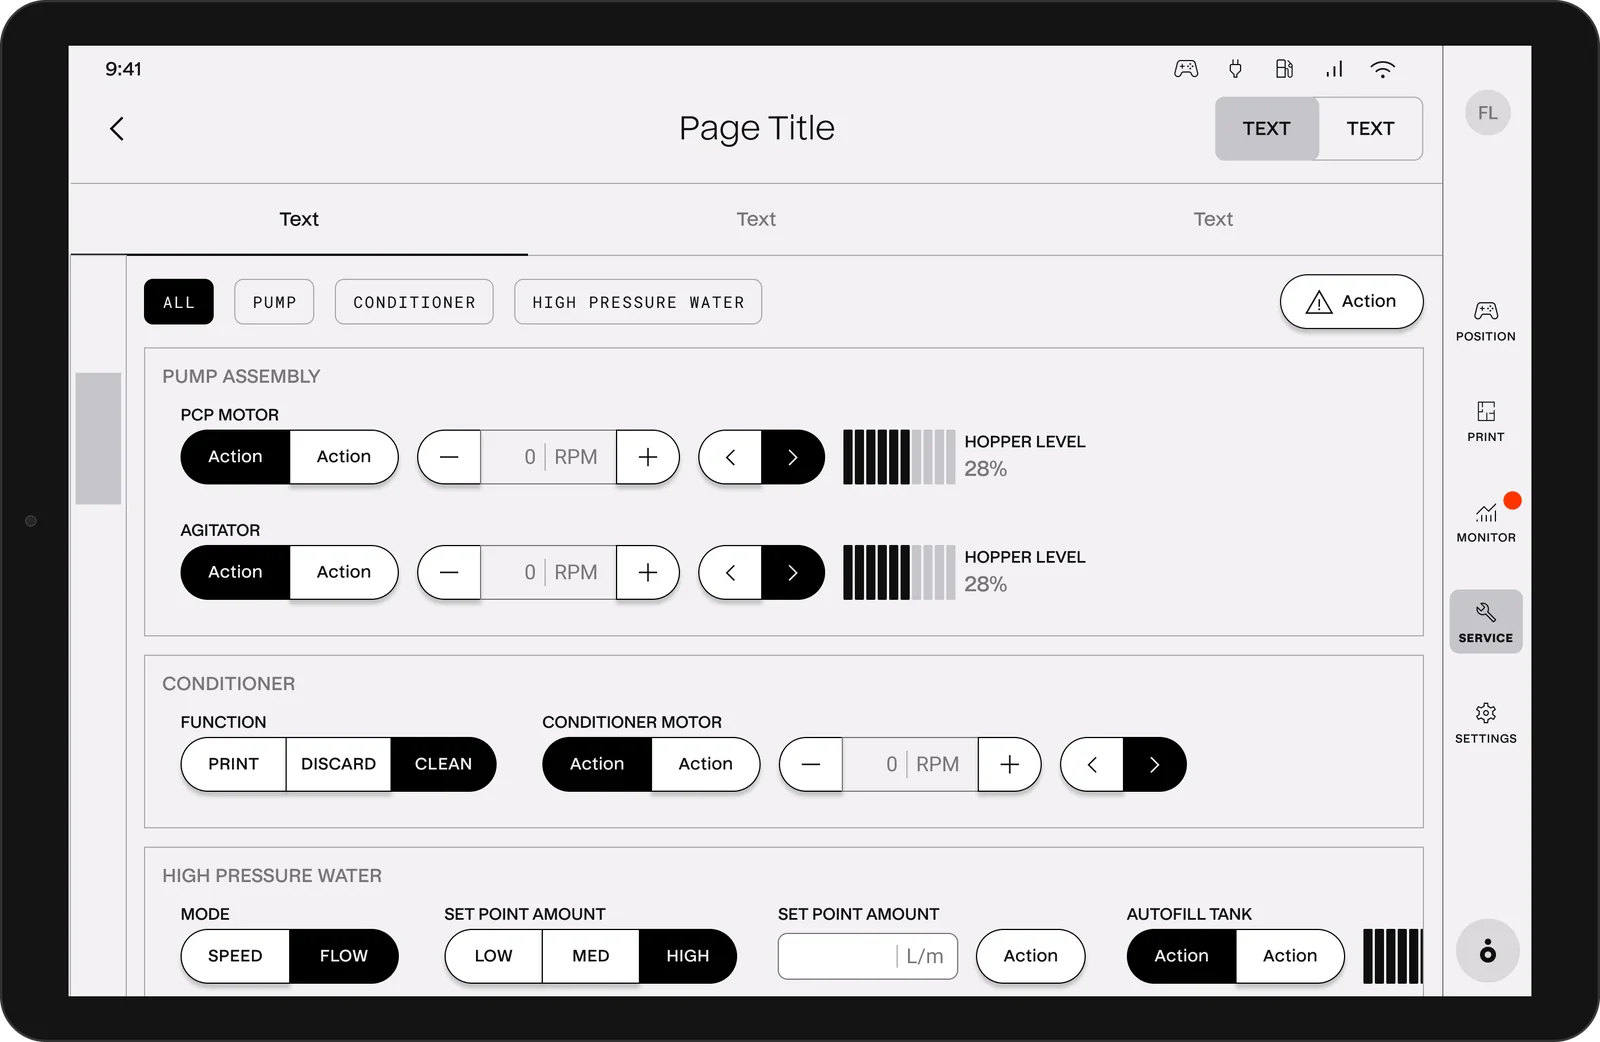
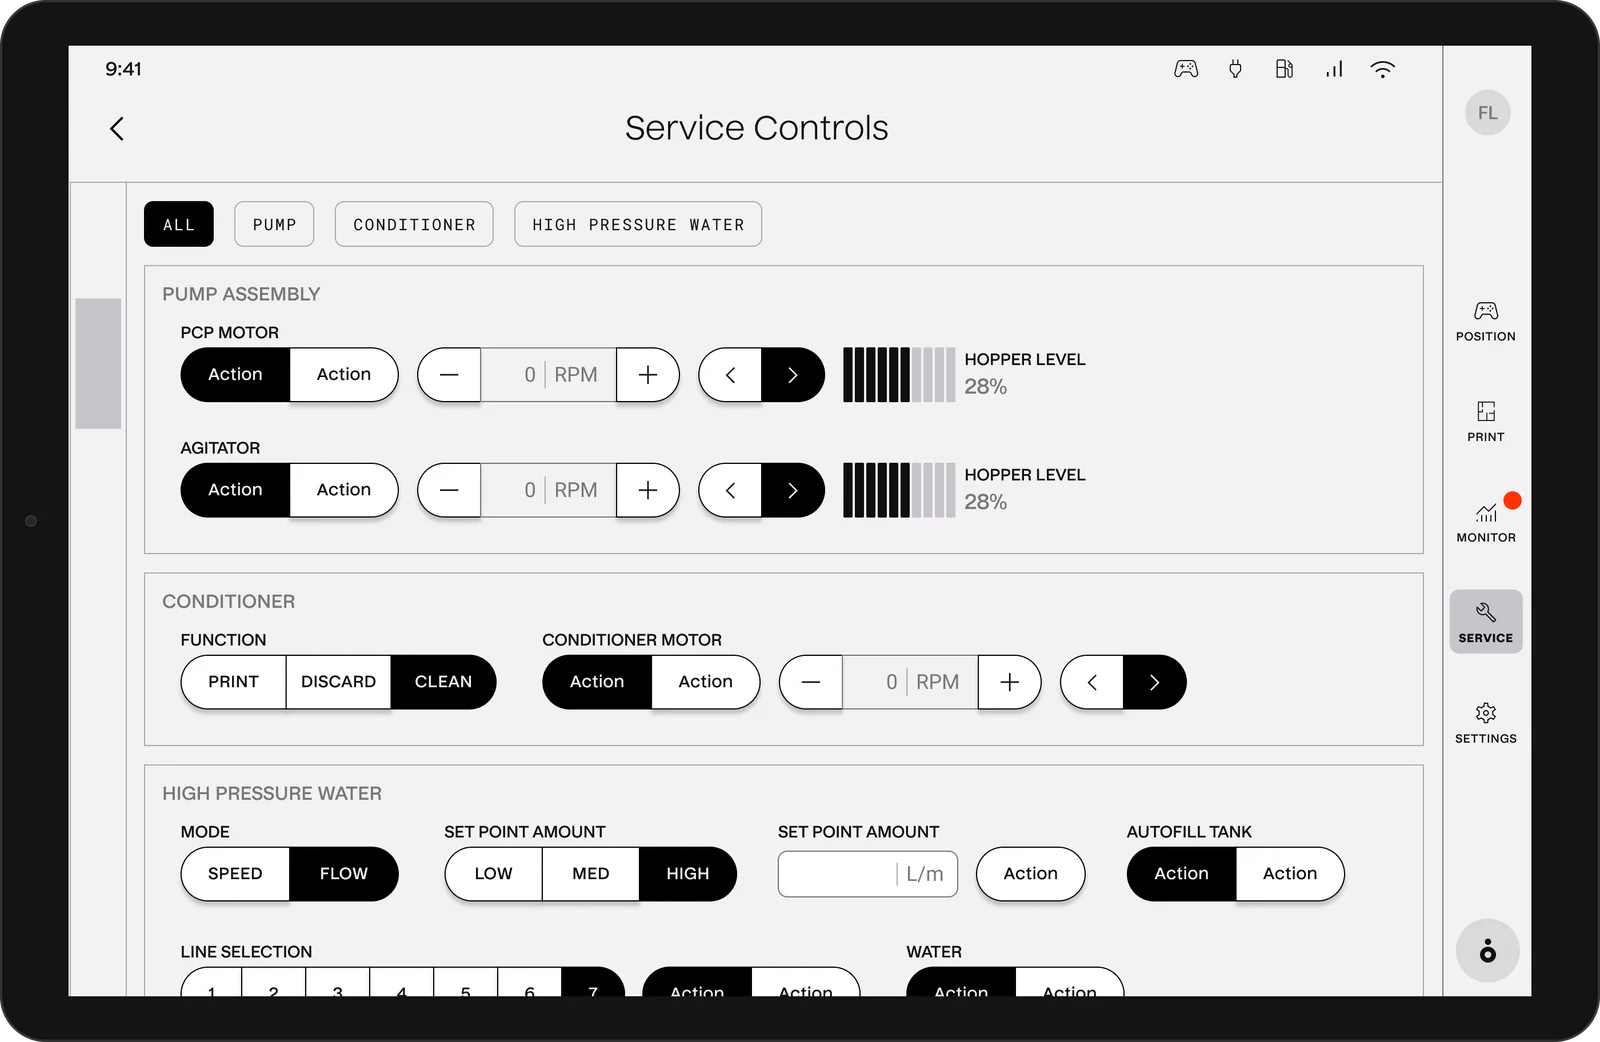
robotics-story: two-column splits, close + polish pass
- Text-left / media-right splits for sections 1, 3, 4, 7, 8 (image, or
  image+video for ecosystem, moves beside the copy)
- Research two-up: equal height via 16/9 cover crop; caption plural
- Re-pull updated Service Controls image
- Rename section 9 eyebrow to "Envisioning what's next"
- North-star: keep "-> weeks" on its own line (break + nbsp)
- 2x playback on the core-idea video (data-speed + script)
- Close now ends on a larger "Thanks for walking through it." (drop
  the "Happy to go deeper" heading, blurb, and buttons)

diff --git a/robotics-story.html b/robotics-story.html
@@ -77,9 +77,15 @@
   .row3 .cap{font-size:11px;color:var(--faint);letter-spacing:.1em;text-transform:uppercase;font-weight:700;margin-top:10px;text-align:center}
   @media(max-width:760px){.row3{grid-template-columns:1fr;gap:24px}}
   .row2{display:grid;grid-template-columns:1fr 1fr;gap:16px;margin-top:40px}
-  .row2 img{width:100%;border-radius:12px;display:block}
+  .row2 img{width:100%;aspect-ratio:16/9;object-fit:cover;border-radius:12px;display:block}
   .row2 .cap{font-size:11px;color:var(--faint);letter-spacing:.1em;text-transform:uppercase;font-weight:700;margin-top:10px;text-align:center}
   @media(max-width:760px){.row2{grid-template-columns:1fr;gap:24px}}
+
+  /* Two-column split (text left, media right) */
+  .split{display:grid;grid-template-columns:1fr 1fr;gap:clamp(32px,5vw,60px);align-items:center}
+  .split .media .fig{margin-top:0}
+  .split .media>figure+figure{margin-top:20px}
+  @media(max-width:820px){.split{grid-template-columns:1fr;gap:0}.split .media{margin-top:36px}}
 
   video.fig{aspect-ratio:16/9;object-fit:cover;background:#0f0e0c}
 
@@ -119,10 +125,16 @@
 <!-- 1 · THE STARTING POINT -->
 <section class="act">
   <div class="wrap reveal">
-    <div class="eyebrow">The starting point</div>
-    <h2 class="stmt">A neglected experience that fell apart on the slab.</h2>
-    <p class="lede">When I joined, the operator interface had been designed by software engineers without UX support. It functioned but poorly in the field: washed out in direct sunlight and screen glare, targets too small for gloved hands, and complex navigation that assumed you already knew the machine. Running a print meant memorizing the tool, not using it, and multiple operators were required due to the complexity of the system.</p>
-    <figure style="margin:48px auto 0;max-width:440px"><img class="fig" src="rob-block2-screen.webp" alt="The original operator print screen, dense and hard to read in the field" style="margin-top:0"><figcaption>Initial print screen view</figcaption></figure>
+    <div class="split">
+      <div class="text">
+        <div class="eyebrow">The starting point</div>
+        <h2 class="stmt">A neglected experience that fell apart on the slab.</h2>
+        <p class="lede">When I joined, the operator interface had been designed by software engineers without UX support. It functioned but poorly in the field: washed out in direct sunlight and screen glare, targets too small for gloved hands, and complex navigation that assumed you already knew the machine. Running a print meant memorizing the tool, not using it, and multiple operators were required due to the complexity of the system.</p>
+      </div>
+      <div class="media">
+        <figure><img class="fig" src="rob-block2-screen.webp" alt="The original operator print screen, dense and hard to read in the field"><figcaption>Initial print screen view</figcaption></figure>
+      </div>
+    </div>
   </div>
 </section>
 
@@ -134,7 +146,7 @@
     <p class="lede">I shadowed operators in real conditions (sun, heat, dust, gloves, noise) and ran usability testing on the interface itself, trying different access points and interaction approaches to see what held up under load and what quietly failed. After that the problems weren't opinions, they were observed.</p>
     <div class="row2">
       <div><img src="rob-operationoutside.webp" alt="Operators running a print outdoors in bright sun"><div class="cap">Slab operations in Austin's sun and heat</div></div>
-      <div><img src="rob-shadow.webp" alt="Shadowing an operator at work on the jobsite"><div class="cap">Shadowing an operator on site</div></div>
+      <div><img src="rob-shadow.webp" alt="Shadowing operators at work on the jobsite"><div class="cap">Shadowing operators on site</div></div>
     </div>
   </div>
 </section>
@@ -142,17 +154,23 @@
 <!-- 3 · THE REDESIGN -->
 <section class="act">
   <div class="wrap reveal">
-    <div class="eyebrow">The redesign</div>
-    <h2 class="stmt">Rebuilt for the hand, the eye, and the noise.</h2>
-    <p class="lede">I redesigned the operator experience around field reality, cutting cognitive load at every step. The interface stopped fighting the environment and started working with it.</p>
-    <div class="points">
-      <div class="point"><b>Large-format, high-contrast design system:</b> a variant of the component library built to stay legible in glare and usable in gloves.</div>
-      <div class="point"><b>Design across senses:</b> screen, haptics, lights, and sound working together for attention management and safety, so critical cues land even when no one is looking at a screen.</div>
-      <div class="point"><b>Navigation and surfaces:</b> flexible surfaces that open when needed and tuck away when not, with shortcuts to key screens.</div>
-      <div class="point"><b>Consolidated monitoring:</b> unified alert patterns and visual gauges in place of scattered readouts and text-based errors.</div>
-      <div class="point"><b>Full-screen print paths:</b> the plan rendered big and legible, so an operator can read the build at a glance.</div>
+    <div class="split">
+      <div class="text">
+        <div class="eyebrow">The redesign</div>
+        <h2 class="stmt">Rebuilt for the hand, the eye, and the noise.</h2>
+        <p class="lede">I redesigned the operator experience around field reality, cutting cognitive load at every step. The interface stopped fighting the environment and started working with it.</p>
+        <div class="points">
+          <div class="point"><b>Large-format, high-contrast design system:</b> a variant of the component library built to stay legible in glare and usable in gloves.</div>
+          <div class="point"><b>Design across senses:</b> screen, haptics, lights, and sound working together for attention management and safety, so critical cues land even when no one is looking at a screen.</div>
+          <div class="point"><b>Navigation and surfaces:</b> flexible surfaces that open when needed and tuck away when not, with shortcuts to key screens.</div>
+          <div class="point"><b>Consolidated monitoring:</b> unified alert patterns and visual gauges in place of scattered readouts and text-based errors.</div>
+          <div class="point"><b>Full-screen print paths:</b> the plan rendered big and legible, so an operator can read the build at a glance.</div>
+        </div>
+      </div>
+      <div class="media">
+        <figure><img class="fig" src="rob-block4-tablet.webp" alt="Redesigned large-format operator interface on the Block 4 tablet"><figcaption>Redesigned for the field</figcaption></figure>
+      </div>
     </div>
-    <figure style="margin:48px auto 0;max-width:460px"><img class="fig" src="rob-block4-tablet.webp" alt="Redesigned large-format operator interface on the Block 4 tablet" style="margin-top:0"><figcaption>Redesigned for the field</figcaption></figure>
     <figure><video class="fig" src="rob-lights.mp4" muted loop autoplay playsinline preload="metadata"></video><figcaption>Multi-sensory cues: light and sound</figcaption></figure>
   </div>
 </section>
@@ -160,14 +178,20 @@
 <!-- 4 · DESIGNING UNDER ACTIVE DEVELOPMENT -->
 <section class="act band">
   <div class="wrap reveal">
-    <div class="eyebrow">A moving target</div>
-    <h2 class="stmt">Designed while it was still being invented, across very different machines.</h2>
-    <p class="lede">Throughout my time at ICON, I designed across products in active R&D, over multiple generations and two very different form factors: the Vulcan single-story gantry and the Titan multi-story arm. As the design evolved, two key approaches helped keep it coherent while the ground kept shifting.</p>
-    <div class="points">
-      <div class="point"><b>Service Controls:</b> a low-lift place to drop in new controls for testing and validating features quickly, accessible, but out of the way during normal, production-ready operations.</div>
-      <div class="point"><b>Shared product patterns:</b> interaction patterns designed once and reused across products, so each new machine felt like the same tool instead of a relearn.</div>
+    <div class="split">
+      <div class="text">
+        <div class="eyebrow">A moving target</div>
+        <h2 class="stmt">Designed while it was still being invented, across very different machines.</h2>
+        <p class="lede">Throughout my time at ICON, I designed across products in active R&D, over multiple generations and two very different form factors: the Vulcan single-story gantry and the Titan multi-story arm. As the design evolved, two key approaches helped keep it coherent while the ground kept shifting.</p>
+        <div class="points">
+          <div class="point"><b>Service Controls:</b> a low-lift place to drop in new controls for testing and validating features quickly, accessible, but out of the way during normal, production-ready operations.</div>
+          <div class="point"><b>Shared product patterns:</b> interaction patterns designed once and reused across products, so each new machine felt like the same tool instead of a relearn.</div>
+        </div>
+      </div>
+      <div class="media">
+        <figure><img class="fig" src="rob-generations.webp" alt="Two ICON systems side by side, the multi-story Titan arm and the single-story Vulcan gantry"><figcaption>Multi-machine design, for R&D and production</figcaption></figure>
+      </div>
     </div>
-    <figure><img class="fig" src="rob-generations.webp" alt="Two ICON systems side by side, the multi-story Titan arm and the single-story Vulcan gantry"><figcaption>Multi-machine design, for R&D and production</figcaption></figure>
     <figure><img class="fig" src="rob-service-tablet.webp" alt="Service Controls page for testing and validating features on the tablet"><figcaption>Service Controls: low-lift testing, tucked away in production</figcaption></figure>
   </div>
 </section>
@@ -194,50 +218,62 @@
     <h2 class="stmt">It all came together as task-based construction.</h2>
     <p class="lede">Those features were pointing at one idea, and it became the keystone: translating construction itself into discrete tasks. Together with the software engineers, we defined a system to translate each design element and process into a <b>dependency-based task-graph</b> that we could surface as on-screen tasks with embedded guidance to support operators whenever they needed it. Routines, prompts, and auto-play became parts of that flow rather than separate tools, and expert knowledge was now built into the sequence instead of living in someone's head.</p>
     <img class="fig" src="rob-titangen.webp" alt="The build expressed as an ordered, guided task list with live status">
-    <video class="fig" src="rob-printapp.mp4" muted loop autoplay playsinline preload="metadata"></video>
+    <video class="fig" src="rob-printapp.mp4" data-speed="2" muted loop autoplay playsinline preload="metadata"></video>
   </div>
 </section>
 
 <!-- 7 · THE ECOSYSTEM -->
 <section class="act">
   <div class="wrap reveal">
-    <div class="eyebrow">The ecosystem</div>
-    <h2 class="stmt">One operator's screen, wired into the whole project.</h2>
-    <p class="lede">The operator tool was never an island. I connected it to the products around it so the field, the office, and the data stayed in sync.</p>
-    <div class="points">
-      <div class="point"><b>Plan module as the bridge to operations:</b> a digital site plan that assigns selected designs (and their specific print paths) to a designated printer, and pulls design updates straight from the Design module into the digital instructions for the machine.</div>
-      <div class="point"><b>Placement translation:</b> mapping where a design sits in the 3D environment relative to the physical machine, so print placement is accurate, with additional adjustment enabled from detailed scanning.</div>
-      <div class="point"><b>Scheduling:</b> configuring shift schedules and staffing for realistic print-time estimates, with a preview of the print build-up.</div>
-      <div class="point"><b>Data sharing:</b> task progress, performance, and material consumption shipped back to Plan for PM and CM visibility of project status, and to Foundry for deeper analysis and reliability work.</div>
-      <div class="point"><b>Shared components:</b> one set of 3D models and patterns reused across the ecosystem, for accuracy and faster development.</div>
-      <div class="point"><b>Fleet:</b> a management product for inventory, configuration settings, and deployments across machines.</div>
+    <div class="split">
+      <div class="text">
+        <div class="eyebrow">The ecosystem</div>
+        <h2 class="stmt">One operator's screen, wired into the whole project.</h2>
+        <p class="lede">The operator tool was never an island. I connected it to the products around it so the field, the office, and the data stayed in sync.</p>
+        <div class="points">
+          <div class="point"><b>Plan module as the bridge to operations:</b> a digital site plan that assigns selected designs (and their specific print paths) to a designated printer, and pulls design updates straight from the Design module into the digital instructions for the machine.</div>
+          <div class="point"><b>Placement translation:</b> mapping where a design sits in the 3D environment relative to the physical machine, so print placement is accurate, with additional adjustment enabled from detailed scanning.</div>
+          <div class="point"><b>Scheduling:</b> configuring shift schedules and staffing for realistic print-time estimates, with a preview of the print build-up.</div>
+          <div class="point"><b>Data sharing:</b> task progress, performance, and material consumption shipped back to Plan for PM and CM visibility of project status, and to Foundry for deeper analysis and reliability work.</div>
+          <div class="point"><b>Shared components:</b> one set of 3D models and patterns reused across the ecosystem, for accuracy and faster development.</div>
+          <div class="point"><b>Fleet:</b> a management product for inventory, configuration settings, and deployments across machines.</div>
+        </div>
+      </div>
+      <div class="media">
+        <figure><img class="fig" src="rob-position-tablet.webp" alt="Plan and position view connecting the site plan to a specific printer"><figcaption>Plan and position, connected to operations</figcaption></figure>
+        <figure><video class="fig" src="rob-planshared.mp4" muted loop autoplay playsinline preload="metadata"></video><figcaption>Using common components across tools and users</figcaption></figure>
+      </div>
     </div>
-    <figure><img class="fig" src="rob-position-tablet.webp" alt="Plan and position view connecting the site plan to a specific printer"><figcaption>Plan and position, connected to operations</figcaption></figure>
-    <figure><video class="fig" src="rob-planshared.mp4" muted loop autoplay playsinline preload="metadata"></video><figcaption>Using common components across tools and users</figcaption></figure>
   </div>
 </section>
 
 <!-- 8 · THE COLLABORATION -->
 <section class="act band">
   <div class="wrap reveal">
-    <div class="eyebrow">The collaboration</div>
-    <h2 class="stmt">The design lived at the seams between teams.</h2>
-    <p class="lede">None of this worked in isolation. I sat between disciplines and translated in every direction.</p>
-    <div class="points">
-      <div class="point"><b>Mechanical engineers:</b> turning new hardware capability into system and operator behavior, targeting what to automate and when, and shaping issue-resolution processes.</div>
-      <div class="point"><b>Operators:</b> grounding the work in real conditions and the non-robotic duties they juggle, and respecting their attention limits, frustrations, and potential hazards.</div>
-      <div class="point"><b>Embedded and firmware engineers:</b> turning machine signals into human alerts, and raw errors into resolvable conditions.</div>
-      <div class="point"><b>Software engineers:</b> turning architectural designs into tasks a person could follow, plus 3D interfaces and scheduling and machine complexity.</div>
-      <div class="point"><b>Product stakeholders:</b> from architects and construction-manager workflows to support engineers and data analysts.</div>
+    <div class="split">
+      <div class="text">
+        <div class="eyebrow">The collaboration</div>
+        <h2 class="stmt">The design lived at the seams between teams.</h2>
+        <p class="lede">None of this worked in isolation. I sat between disciplines and translated in every direction.</p>
+        <div class="points">
+          <div class="point"><b>Mechanical engineers:</b> turning new hardware capability into system and operator behavior, targeting what to automate and when, and shaping issue-resolution processes.</div>
+          <div class="point"><b>Operators:</b> grounding the work in real conditions and the non-robotic duties they juggle, and respecting their attention limits, frustrations, and potential hazards.</div>
+          <div class="point"><b>Embedded and firmware engineers:</b> turning machine signals into human alerts, and raw errors into resolvable conditions.</div>
+          <div class="point"><b>Software engineers:</b> turning architectural designs into tasks a person could follow, plus 3D interfaces and scheduling and machine complexity.</div>
+          <div class="point"><b>Product stakeholders:</b> from architects and construction-manager workflows to support engineers and data analysts.</div>
+        </div>
+      </div>
+      <div class="media">
+        <figure><img class="fig" src="rob-titan-prototype.webp" alt="Aerial view of the next-generation Titan robot 3D-printing a structure on its first demo project"><figcaption>First demo print for the next-gen Titan printer</figcaption></figure>
+      </div>
     </div>
-    <figure><img class="fig" src="rob-titan-prototype.webp" alt="Aerial view of the next-generation Titan robot 3D-printing a structure on its first demo project"><figcaption>First demo print for the next-gen Titan printer</figcaption></figure>
   </div>
 </section>
 
-<!-- 9 · THE VISION -->
+<!-- 9 · ENVISIONING WHAT'S NEXT -->
 <section class="act band ink">
   <div class="wrap reveal">
-    <div class="eyebrow">The vision</div>
+    <div class="eyebrow">Envisioning what's next</div>
     <h2 class="stmt">Once the work was tasks, it could be spoken.</h2>
     <p class="lede">With operation expressed as text-based tasks, I began prototyping where it could go next. This was direction I set and explored, not something that shipped while I was there, but clarified where the foundation was built to go.</p>
     <div class="points">
@@ -262,7 +298,7 @@
     <p class="lede">Every task, every automated step, every remote view was a piece of the same goal: expertise that scales without more bodies on every site. The direction held even as the hardware kept changing underneath it.</p>
     <div class="stats" style="margin-top:44px">
       <div class="stat"><div class="n">5 → 1.5</div><div class="l">People to operate, Block 3 generation to Titan release</div></div>
-      <div class="stat"><div class="n">Months → weeks</div><div class="l">Operator onboarding; a recent project reached independence within 3 weeks</div></div>
+      <div class="stat"><div class="n">Months<br>→&nbsp;weeks</div><div class="l">Operator onboarding; a recent project reached independence within 3 weeks</div></div>
       <div class="stat"><div class="n">60%</div><div class="l">Of the build sequence delivered as guided, task-based steps</div></div>
       <div class="stat"><div class="n">30%</div><div class="l">Reduction in print time from forced, automated sequencing</div></div>
     </div>
@@ -271,13 +307,7 @@
 
 <!-- CONNECT -->
 <section class="connect">
-  <div class="eyebrow">Thanks for walking through it</div>
-  <h2>Happy to go deeper on any of this.</h2>
-  <p>The messy middle (the tradeoffs, the engineering partnership, the calls that didn't work) is my favorite part to talk about.</p>
-  <div class="cbtns">
-    <a href="mailto:holly.a.nava@gmail.com">Email</a>
-    <a class="ghost" href="work.html">See other work</a>
-  </div>
+  <h2 style="font-size:clamp(30px,5vw,54px)">Thanks for walking through it.</h2>
 </section>
 <footer>
   <span>© 2026 Holly Nava</span>
@@ -294,7 +324,8 @@
   // Autoplay video when visible
   const vids=document.querySelectorAll('video');
   const vio=new IntersectionObserver(es=>es.forEach(e=>{e.isIntersecting?e.target.play().catch(()=>{}):e.target.pause()}),{threshold:.25});
-  vids.forEach(v=>vio.observe(v));
+  const applyRate=v=>{if(v.dataset.speed)v.playbackRate=parseFloat(v.dataset.speed);};
+  vids.forEach(v=>{applyRate(v);v.addEventListener('loadedmetadata',()=>applyRate(v));v.addEventListener('play',()=>applyRate(v));vio.observe(v);});
 </script>
 </body>
 </html>
